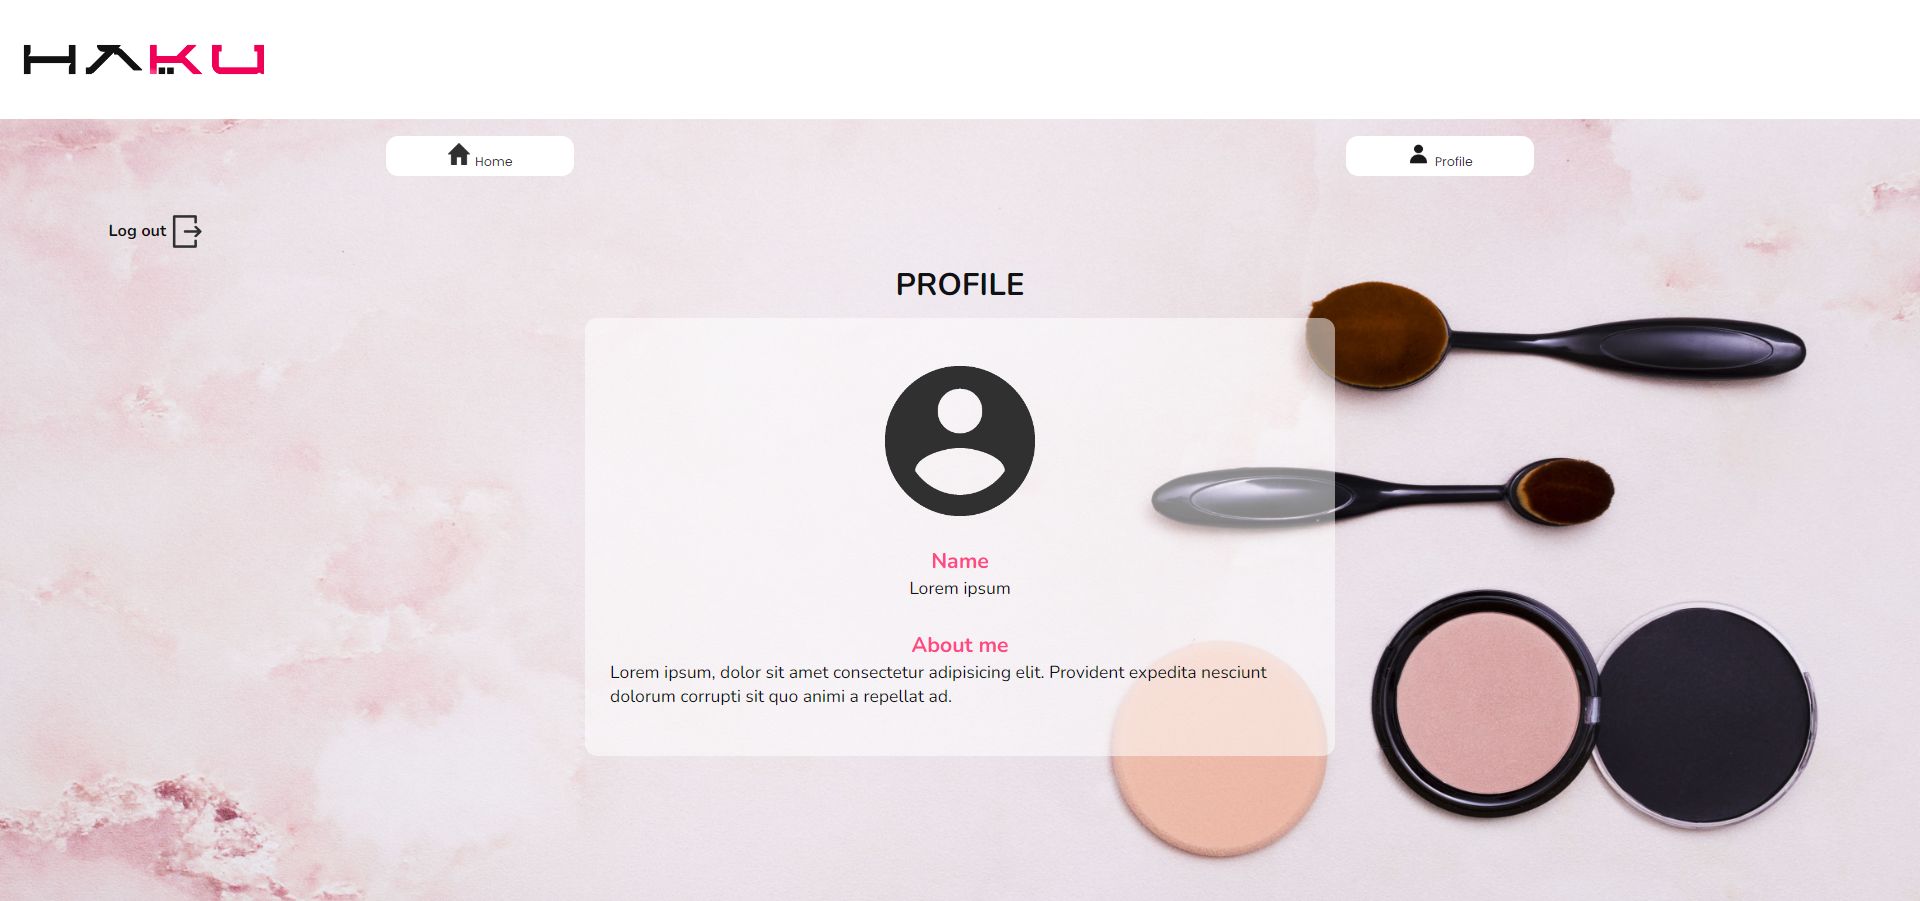
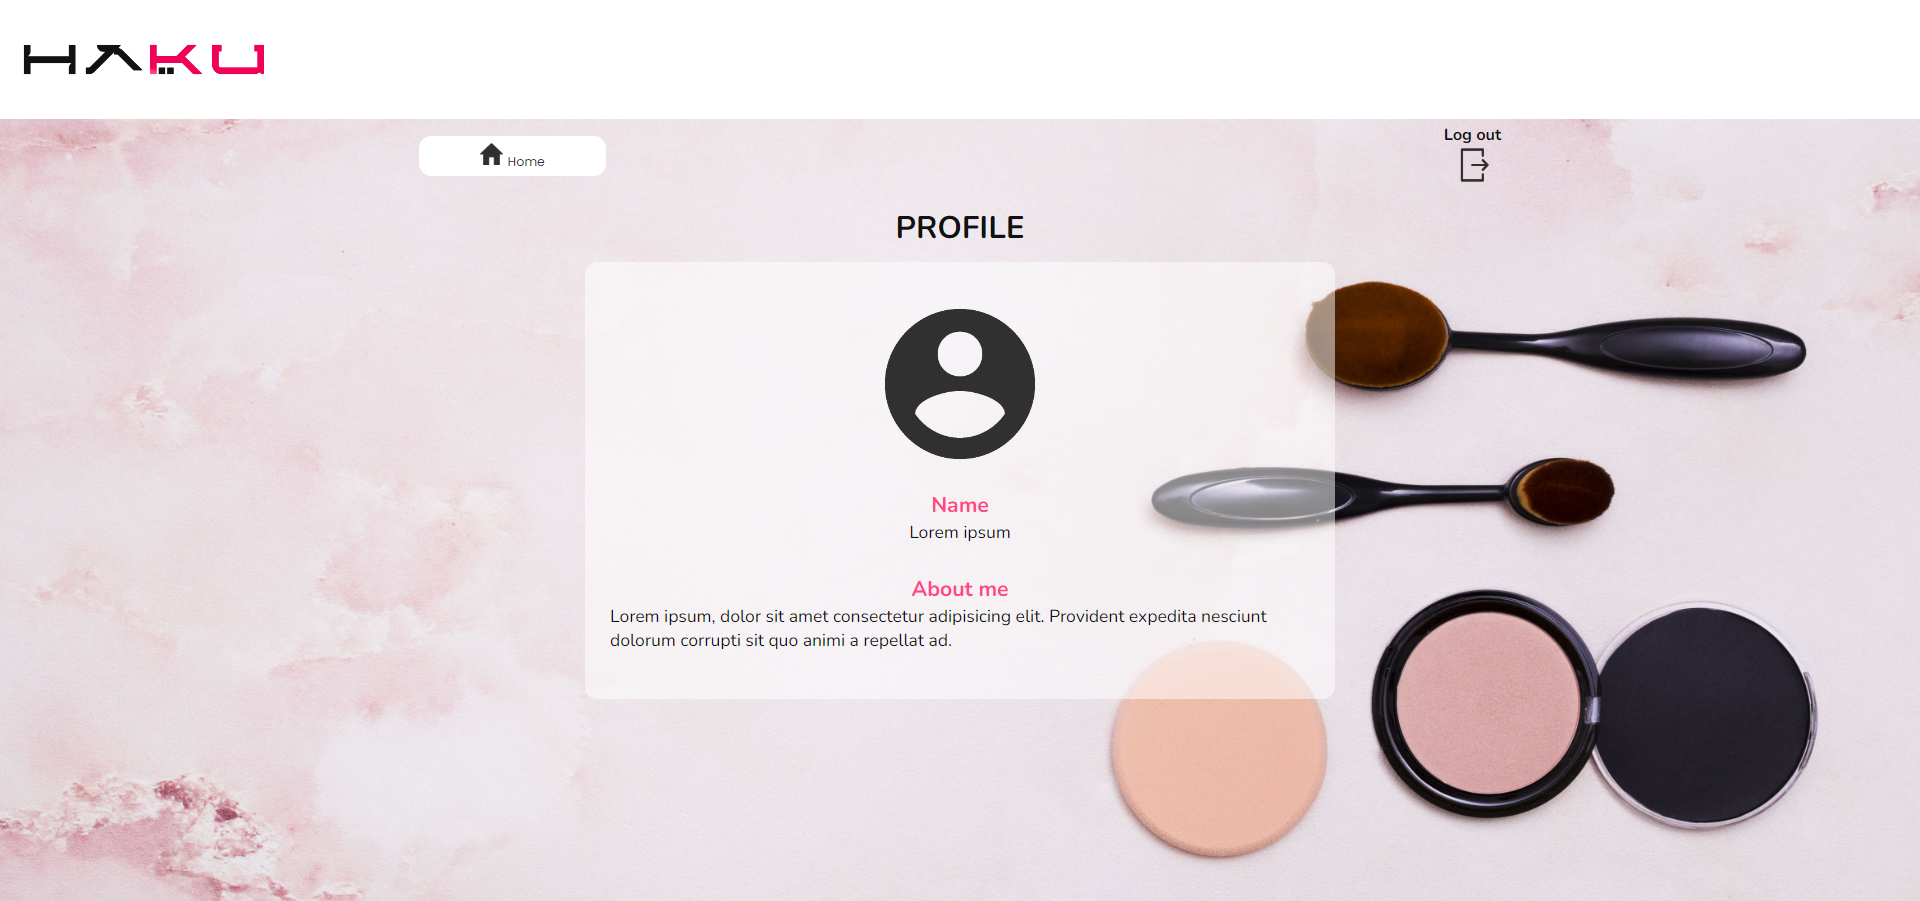
Actualización

diff --git a/src/views/register.js b/src/views/register.js
@@ -1,5 +1,11 @@
 import { registerUser} from "../firebase/firebase.js";
 import "../styles/register.css";
+import  logoWR from '../assets/logo-haku-white.png'
+import  iconBck from '../assets/back.png'
+import  userGrey from '../assets/icon-user-grey.png'
+import  emailR from '../assets/email.png'
+import  passGrey from '../assets/icon-password-grey.png'
+
 function register(navegador) {
     const containerRegister = document.createElement('section');
     const containerLogo = document.createElement('div');
@@ -49,24 +55,24 @@ function register(navegador) {
     inputNewPassword.classList.add('inputNewPassword');
     buttonSignUp.classList.add('buttonSignUp');
 
-    logoHaku.setAttribute('src', '/assets/logo-haku-white.png');
+    logoHaku.setAttribute('src', logoWR);
     logoHaku.setAttribute('alt', 'Haku Social Network Logo');
-    imgBack.setAttribute('src', '/assets/back.png');
+    imgBack.setAttribute('src', iconBck);
     imgBack.setAttribute('alt', 'Icon back');
     formRegister.setAttribute('id', 'form-register');
-    inputIconName.setAttribute('src', '/assets/icon-user-grey.png')
+    inputIconName.setAttribute('src', userGrey)
     inputIconName.setAttribute('alt', 'User icon')
     inputName.setAttribute('id', 'inputFirstName' );
     inputName.setAttribute('type', 'text' );
     inputName.setAttribute('placeholder', 'NAME' );
     inputName.setAttribute('required', '');
-    inputIconEmail.setAttribute('src', '/assets/email.png')
+    inputIconEmail.setAttribute('src', emailR)
     inputIconEmail.setAttribute('alt', 'Email icon')
     input_Email.setAttribute('id', 'input-email');
     input_Email.setAttribute('type', 'email');
     input_Email.setAttribute('placeholder', 'EMAIL');
     input_Email.setAttribute('required', '');
-    inputIcon_Password.setAttribute('src', '/assets/icon-password-grey.png');
+    inputIcon_Password.setAttribute('src', passGrey);
     inputIcon_Password.setAttribute('alt', 'Secret key icon');
     input_Password.setAttribute('id', 'input-password');
     input_Password.setAttribute('type', 'password');
@@ -74,7 +80,7 @@ function register(navegador) {
     input_Password.setAttribute('minlength', '6');
     input_Password.setAttribute('maxlength', '12');
     input_Password.setAttribute('required', '');
-    inputIconNewPassword.setAttribute('src', '/assets/icon-password-grey.png');
+    inputIconNewPassword.setAttribute('src', passGrey);
     inputIconNewPassword.setAttribute('alt', 'Secret key icon');
     inputNewPassword.setAttribute('id', 'inputNewPassword');
     inputNewPassword.setAttribute('type', 'password');

diff --git a/src/views/login.js b/src/views/login.js
@@ -1,5 +1,9 @@
 import { LoginWithGoogle, loginEmailPassword, onGetUserData, deleteUser } from "../firebase/firebase.js";
 import "../styles/login.css";
+import  logoW from '../assets/logo-haku-white.png'
+import  iconUser from '../assets/icon-user.png'
+import  iconPassword from '../assets/icon-password.png'
+import  iconGoogle from '../assets/icon-google.png'
 
 function login(navigator) {
     const containerLogin = document.createElement('section');
@@ -54,16 +58,16 @@ function login(navigator) {
     sectionIconApp.classList.add('sectionIconApp');
     imgIconGoogle.classList.add('imgIconGoogle');
 
-    imgLogo.setAttribute('src','/assets/logo-haku-white.png');
+    imgLogo.setAttribute('src', logoW);
     imgLogo.setAttribute('alt','Haku Social Network Logo');
     form.setAttribute('id', 'signIn-form');
-    inputIconUser.setAttribute('src','/assets/icon-user.png')
+    inputIconUser.setAttribute('src', iconUser)
     inputIconUser.setAttribute('alt','User icon')
     inputEmail.setAttribute('id', 'inputEmail');
     inputEmail.setAttribute('type', 'email');
     inputEmail.setAttribute('placeholder', 'EMAIL');
     inputEmail.setAttribute('required', '');
-    inputIconPassword.setAttribute('src','/assets/icon-password.png');
+    inputIconPassword.setAttribute('src', iconPassword);
     inputIconPassword.setAttribute('alt', 'Secret key icon');
     inputPassword.setAttribute('id', 'inputPassword');
     inputPassword.setAttribute('type', 'password');
@@ -73,7 +77,7 @@ function login(navigator) {
     inputPassword.setAttribute('required', '');
     msgEmailPassword.setAttribute('id', 'msg_Email');
     buttonSingIn.setAttribute('type', 'submit');
-    imgIconGoogle.setAttribute('src', '/assets/icon-google.png');
+    imgIconGoogle.setAttribute('src', iconGoogle);
     imgIconGoogle.setAttribute('alt', 'Google logo');
 
     buttonSingIn.textContent = 'Sign In';
@@ -84,6 +88,7 @@ function login(navigator) {
     //trayendo datos del Usuario anterior
     let userIdLogin=""
     let user=""
+
     onGetUserData((responseUserData)=>{
         responseUserData.forEach(element=>{
             user=element
@@ -99,7 +104,6 @@ function login(navigator) {
         navigator('/password')
     })
 
-
     buttonSingIn.addEventListener('click', (e) => {
         e.preventDefault();
         loginEmailPassword(navigator);
@@ -107,7 +111,6 @@ function login(navigator) {
             deleteUser(userIdLogin)
         }
     })
-
 
     imgIconGoogle.addEventListener('click', () => {
         LoginWithGoogle(navigator);

diff --git a/src/views/profile.js b/src/views/profile.js
@@ -1,5 +1,10 @@
-import { logout, onGetUserData } from "../firebase/firebase.js";
+import { logout } from "../firebase/firebase.js";
 import "../styles/profile.css";
+import  logoB from '../assets/logo-haku-black.png'
+import  iconLogout from '../assets/logout2.png'
+import  iconUser from '../assets/user-profile.png'
+import  iconHome from '../assets/home.png'
+
 function profile(navigator) {
     const containerProfile = document.createElement('div');
     const container_Welcome = document.createElement('section');
@@ -33,14 +38,14 @@ function profile(navigator) {
     p_aboutMe.classList.add('p_aboutMe');
     span_aboutMe.classList.add('span_aboutMe');
 
-    img_Logo.setAttribute('src', '/assets/logo-haku-black.png');
+    img_Logo.setAttribute('src', logoB);
     img_Logo.setAttribute('alt', 'Haku Social Network Logo');
-    imgLogout.setAttribute('src', '/assets/logout2.png');
+    imgLogout.setAttribute('src', iconLogout);
     imgLogout.setAttribute('alt', 'Logout Icon');
-    imgProfile.setAttribute('src', '/assets/user-profile.png');
+    imgProfile.setAttribute('src', iconUser);
     imgProfile.setAttribute('alt', 'Haku Social Network Logo');
 
-    a_Home.innerHTML = `<img src="/assets/home.png" alt="House icon">Home</a>`
+    a_Home.innerHTML = `<img src= ${iconHome} alt="House icon">Home</a>`
     p_logout.textContent = 'Log out';
     h2_profile.textContent = 'PROFILE';
     p_name.textContent = 'Name';
@@ -57,9 +62,9 @@ function profile(navigator) {
         logout(navigator)
     });
 
-    containerProfile.append(container_Welcome, container_Options, divContainerLogout, h2_profile, containerUserData);
+    containerProfile.append(container_Welcome, container_Options, h2_profile, containerUserData);
     container_Welcome.append(img_Logo);
-    container_Options.append(a_Home);
+    container_Options.append(a_Home, divContainerLogout);
     divContainerLogout.append(p_logout, imgLogout);
     containerUserData.append(imgProfile, p_name, span_name, p_aboutMe, span_aboutMe);
 

diff --git a/src/views/wall.js b/src/views/wall.js
@@ -1,5 +1,12 @@
-import { savePosts,onGetPosts,onGetUserData,deletePost,getPost,updatePost} from "../firebase/firebase";
+import { savePosts,onGetPosts,onGetUserData,deletePost,getPost,updatePost} from "../firebase/firebase.js";
 import "../styles/wall.css";
+import  logoBlack from '../assets/logo-haku-black.png'
+import  icoVideo from '../assets/icon-video.png'
+import  icoPicture from '../assets/icon-picture.png'
+import  icoPoll from '../assets/icon-poll.png'
+import  iHome from '../assets/home.png'
+import  iUser from '../assets/user.png'
+
 function wall(navigator) {
     const containerWall = document.createElement('section');
     const divContainerProfile = document.createElement('div');
@@ -35,20 +42,20 @@ function wall(navigator) {
     iconPoll.classList.add('iconPoll');
     articlePost.classList.add('articlePost');
 
-    img_logo.setAttribute('src', '/assets/logo-haku-black.png');
+    img_logo.setAttribute('src', logoBlack);
     img_logo.setAttribute('alt', 'Haku Social Network Logo');
     imgProfile2.setAttribute('alt', 'User profile photo');
     buttonWrite.setAttribute('type', 'button');
-    iconVideo.setAttribute('src', '/assets/icon-video.png');
+    iconVideo.setAttribute('src', icoVideo);
     iconVideo.setAttribute('alt', 'Video icon');
-    iconPicture.setAttribute('src', '/assets/icon-picture.png');
+    iconPicture.setAttribute('src', icoPicture);
     iconPicture.setAttribute('alt', 'Picture icon');
-    iconPoll.setAttribute('src', '/assets/icon-poll.png');
+    iconPoll.setAttribute('src', icoPoll);
     iconPoll.setAttribute('alt', 'Purvey icon');
 
 
-    a_Home.innerHTML = `<img src="/assets/home.png" alt="House icon">Home</a>`
-    a_Profile.innerHTML = `<img src="/assets/user.png" alt="User icon">Profile</a>`
+    a_Home.innerHTML = `<img src=${iHome} alt="House icon">Home</a>`
+    a_Profile.innerHTML = `<img src=${iUser} alt="User icon">Profile</a>`
     buttonWrite.textContent = 'Write something...';
 
     //Pop up - Crear post

diff --git a/src/views/password.js b/src/views/password.js
@@ -1,5 +1,9 @@
 import { restorePassword } from "../firebase/firebase.js";
 import "../styles/password.css";
+import  logoW from '../assets/logo-haku-white.png'
+import  imgBack from '../assets/back.png'
+import  imgEmail from '../assets/email.png'
+
 function password(navigateTo) {
     const containerForgotPassword = document.createElement('section');
     const divContainerLogo = document.createElement('div');
@@ -29,11 +33,11 @@ function password(navigateTo) {
     message_email.classList.add('message_email');
     buttonRecoverPassword.classList.add('buttonRecoverPassword');
 
-    img_Logo.setAttribute('src', '/assets/logo-haku-white.png');
+    img_Logo.setAttribute('src', logoW);
     img_Logo.setAttribute('alt', 'Haku Social Network Logo');
-    img_back.setAttribute('src', '/assets/back.png');
+    img_back.setAttribute('src', imgBack);
     img_back.setAttribute('alt', 'Icon back');
-    inputIcon_Email.setAttribute('src', '/assets/email.png');
+    inputIcon_Email.setAttribute('src', imgEmail);
     inputIcon_Email.setAttribute('alt', 'Email icon');
     input_email.setAttribute('id', 'emailRegister');
     input_email.setAttribute('type', 'email');

diff --git a/src/views/error404.js b/src/views/error404.js
@@ -1,4 +1,6 @@
 import "../styles/error404.css";
+import  backgroundError from '../assets/error-404.jpg'
+
 function error404() {
     const sectionError = document.createElement('section');
     const imgError = document.createElement('img');
@@ -6,7 +8,7 @@ function error404() {
     sectionError.classList.add('sectionError');
     imgError.classList.add('imgError');
 
-    imgError.setAttribute('src', '/assets/error-404.jpg');
+    imgError.setAttribute('src', backgroundError);
     imgError.setAttribute('alt', 'Error 404 page no found');
 
     sectionError.append(imgError);

diff --git a/src/styles/profile.css b/src/styles/profile.css
@@ -35,14 +35,6 @@
     text-align: start;
 }
 
-.divContainerLogout {
-    width: 90%;
-    display: flex;
-    align-items: center;
-    padding: 0px 10px;
-    margin-top: 15px;
-}
-
 .p_logout {
     color: var(--black-color);
     font-size: 1.3rem;
@@ -52,6 +44,7 @@
 
 .imgLogout {
     width: 30px;
+    margin-left: 8px;
 }
 
 .h2_profile {

diff --git a/src/lib/router.js b/src/lib/router.js
@@ -1,4 +1,4 @@
-import { routes } from "./pages";
+import { routes } from "./pages.js";
 
 const root = document.getElementById('root');
 

diff --git a/src/main.js b/src/main.js
@@ -1,4 +1,4 @@
-import { navigateTo } from "./lib/router";
+import { navigateTo } from "./lib/router.js";
 
 
 const defaultRoute = '/';
